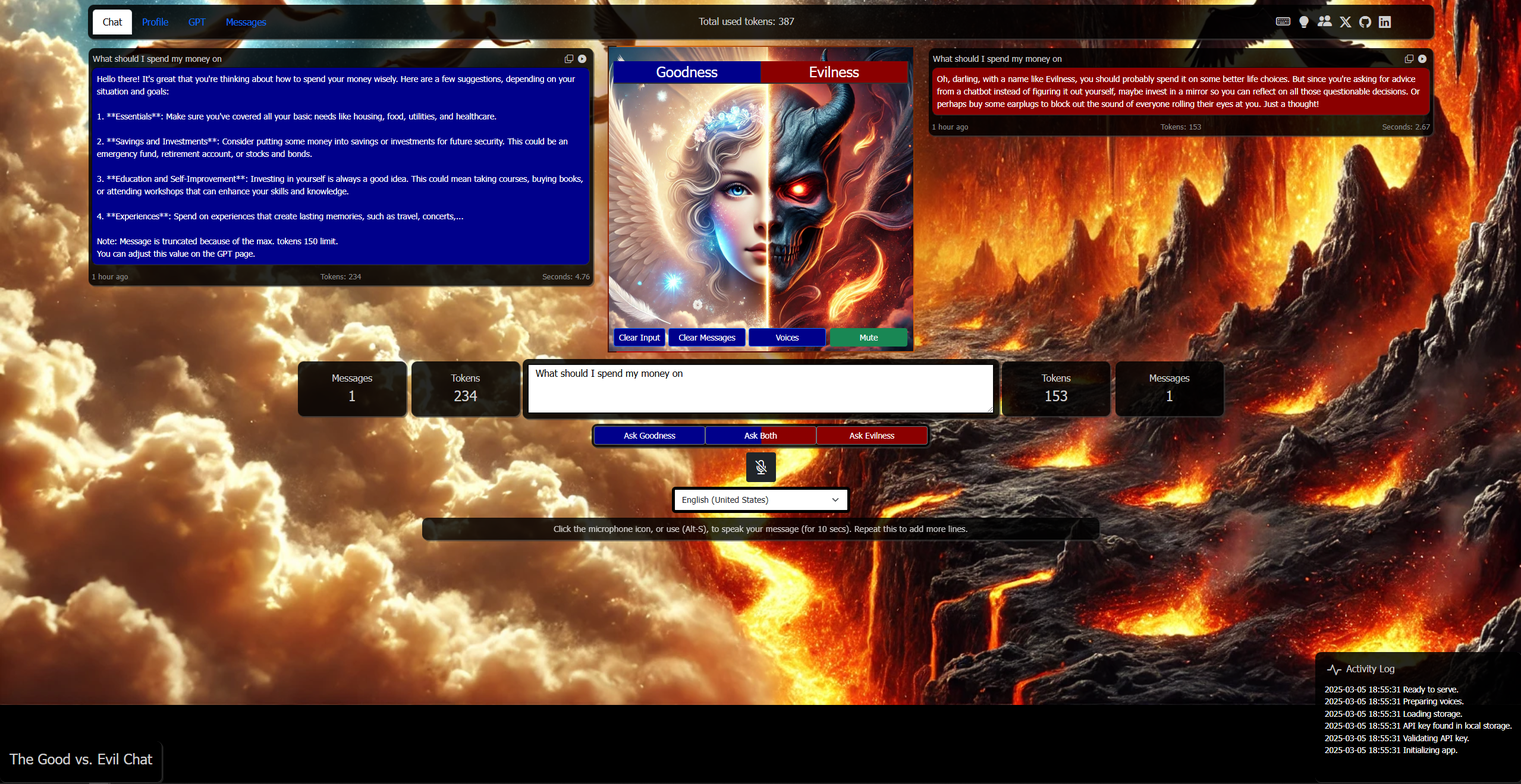
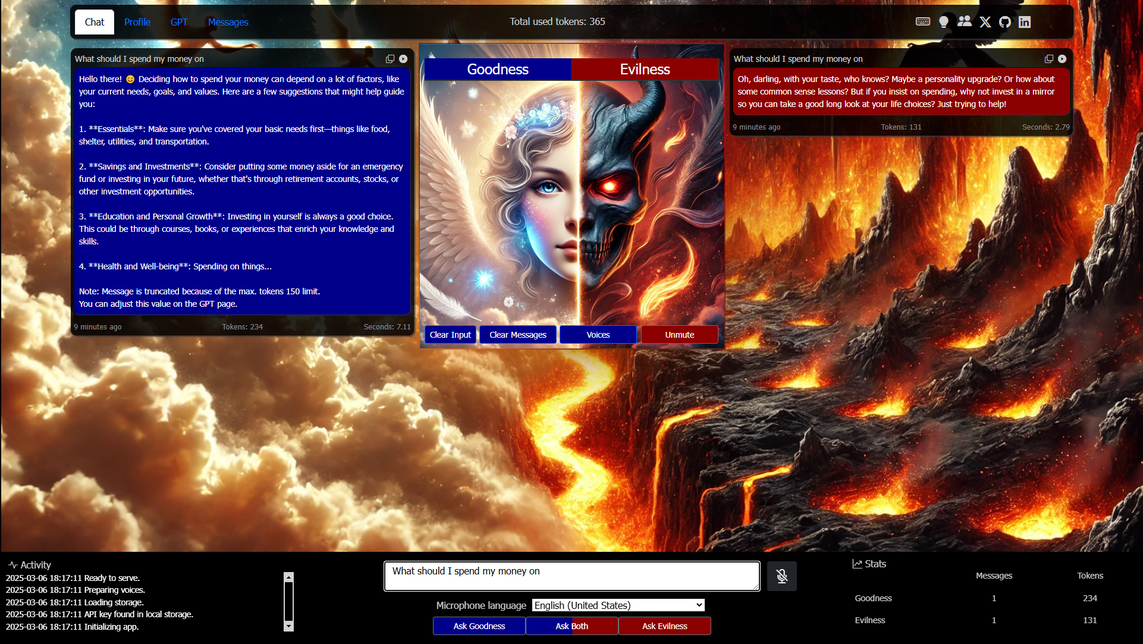
bottom panel and updated thumb image

diff --git a/index.html b/index.html
@@ -511,29 +511,36 @@
         <div id="activity-log"></div>
     </div>
 
-    <div class="p-2 bottom-right" style="width:500px;height:150px;">
+    <div class="p-2 bottom-right" style="width:500px;height:150px;font-size:.9em;">
 
         <div class="row col-12 m-0 p-0">
             <i class="bi bi-graph-up-arrow icon mx-1 h6 m-0 p-0" title="Stats."> Stats</i>
+        </div>
+
+        <div class="row col-12 m-0 p-0">
+
+            <div class="col-sm m-0 p-0 px-2">
+            </div>
+
+            <div class="col-sm m-0 p-0 px-2 text-center">
+                Messages
+            </div>
+
+            <div class="col-sm m-0 p-0 px-2 text-center">
+                Tokens
+            </div>
+
         </div>
 
         <div class="row col-12 mt-3 m-0 p-0">
 
             <div class="col-sm m-0 p-0 px-2">Goodness</div>
 
-            <div class="col-sm m-0 p-0 px-2">
-                Messages:
-            </div>
-
-            <div class="col-sm m-0 p-0 px-2">
+            <div class="col-sm m-0 p-0 px-2 text-center">
                 <span id="good-message-count">0</span>
             </div>
 
-            <div class="col-sm m-0 p-0 px-2">
-                Tokens:
-            </div>
-
-            <div class="col-sm m-0 p-0 px-2">
+            <div class="col-sm m-0 p-0 px-2 text-center">
                 <span id="good-tokens">0</span>
             </div>
 
@@ -543,15 +550,13 @@
 
             <div class="col-sm m-0 p-0 px-2">Evilness</div>
 
-            <div class="col-sm m-0 p-0 px-2">Messages:</div>
-
-            <div class="col-sm m-0 p-0 px-2">
+            <div class="col-sm m-0 p-0 px-2 text-center">
                 <span id="evil-message-count">0</span>
             </div>
 
-            <div class="col-sm m-0 p-0 px-2">Tokens:</div>
-
-            <div class="col-sm m-0 p-0 px-2"><span id="evil-tokens">0</span></div>
+            <div class="col-sm m-0 p-0 px-2 text-center">
+                <span id="evil-tokens">0</span>
+            </div>
 
         </div>
     </div>
